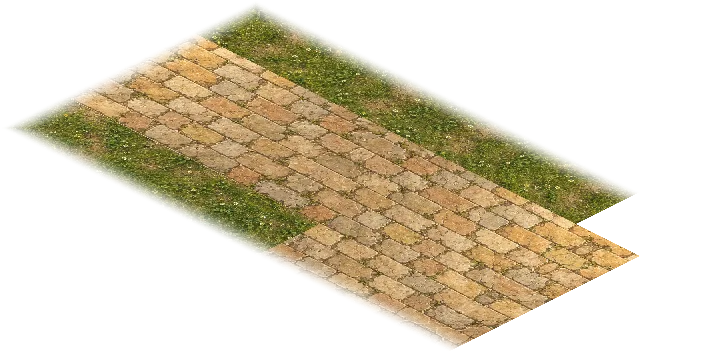
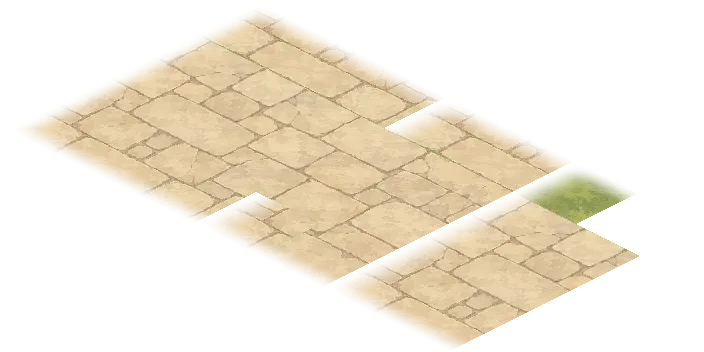
Reuse courtyard materials on western approach

diff --git a/scripts/art/ba-dan-western-approach-ground.ts b/scripts/art/ba-dan-western-approach-ground.ts
@@ -1,28 +1,27 @@
 /**
- * Pack the first-view western Ba Dan approach from the shared material atlas.
+ * Pack the first-view western Ba Dan approach from the accepted courtyard material.
  *
  * This is deliberately a local, transparent ground region: it covers the
- * spawn road and its immediate grass shoulders while overlapping the existing
- * courtyard feather with the same logical-coordinate sampling.
+ * spawn road and its immediate grass shoulders while copying the x5..6 overlap
+ * directly from the accepted courtyard.
  *
- * npx tsx scripts/art/ba-dan-western-approach-ground.ts <four-quadrant-materials.png>
+ * npx tsx scripts/art/ba-dan-western-approach-ground.ts
  */
-import { mkdirSync, writeFileSync } from 'node:fs';
+import { mkdirSync, readFileSync, writeFileSync } from 'node:fs';
+import { createRequire } from 'node:module';
+import decode, { init } from '@jsquash/webp/decode.js';
 import { BA_DAN_VILLAGE } from '../../src/content/maps/village';
-import { newImage, readImage } from './lib/image';
+import { newImage } from './lib/image';
 import { encodeWebp } from './lib/webp';
 
-const source = process.argv[2];
-if (!source) throw new Error('Provide the painted four-quadrant material atlas.');
-
-const atlas = readImage(source);
-const swatch = Math.floor(Math.min(atlas.width, atlas.height) / 2);
-const edge = 3;
-const period = swatch - edge * 2;
-const sample = (value: number): number => {
-  const wrapped = ((value % (period * 2)) + period * 2) % (period * 2);
-  return edge + Math.min(period - 1, Math.floor(wrapped < period ? wrapped : period * 2 - wrapped));
-};
+const courtyardPath = 'public/art/maps/ba-dan-scene/courtyard-ground.webp';
+const require = createRequire(import.meta.url);
+const wasm = readFileSync(require.resolve('@jsquash/webp/codec/dec/webp_dec.wasm'));
+await init(await WebAssembly.compile(wasm));
+const bytes = readFileSync(courtyardPath);
+const courtyard = await decode(
+  bytes.buffer.slice(bytes.byteOffset, bytes.byteOffset + bytes.byteLength),
+);
 
 // Projected bounds for logical x0..6, y6..9. It overlaps the courtyard at
 // x5..6; neither region needs a screen-space edge there because both sample
@@ -35,6 +34,18 @@ const image = newImage(width, height);
 const smoothstep = (edge0: number, edge1: number, value: number): number => {
   const t = Math.max(0, Math.min(1, (value - edge0) / (edge1 - edge0)));
   return t * t * (3 - 2 * t);
+};
+const courtyardOrigin = { x: 640, y: 256 };
+const colorAt = (x: number, y: number): readonly number[] => {
+  const px = Math.floor(1024 + (x - y) * 64 - courtyardOrigin.x);
+  const py = Math.floor((x + y) * 32 - courtyardOrigin.y);
+  const at = (py * courtyard.width + px) * 4;
+  return [
+    courtyard.data[at] ?? 0,
+    courtyard.data[at + 1] ?? 0,
+    courtyard.data[at + 2] ?? 0,
+    courtyard.data[at + 3] ?? 0,
+  ];
 };
 
 for (let py = 0; py < height; py++) {
@@ -53,15 +64,26 @@ for (let py = 0; py < height; py++) {
     // the courtyard region, whose matching sampling already supplies the join.
     const alpha = Math.round(255 * smoothstep(0, 0.4, Math.min(x, y - 6, 10 - y)));
     if (alpha === 0) continue;
-    const material = cell === '=' || cell === '.' || cell === 'B' || cell === 'l' ? 0 : 1;
-    const sx = sample(x * 192) + (material % 2) * swatch;
-    const sy = sample(y * 192) + Math.floor(material / 2) * swatch;
-    const from = (sy * atlas.width + sx) * 4;
+    const road = cell === '=' || cell === '.' || cell === 'B' || cell === 'l';
+    // The overlap is an exact decoded copy of the accepted courtyard. West of
+    // it, repeat interior road cells x5..9,y7..8 and quiet grass x5..7,y9,
+    // retaining the approved broad flagstone scale and meadow palette instead
+    // of mixing in the unrelated historical raw atlas.
+    const source =
+      x >= 5
+        ? { x, y }
+        : road
+          ? { x: x + 5, y }
+          : {
+              x: 5 + (((Math.floor(x) % 3) + 3) % 3) + (x - Math.floor(x)),
+              y: 9 + (y - Math.floor(y)),
+            };
+    const rgba = colorAt(source.x, source.y);
     const to = (py * image.width + px) * 4;
-    image.data[to] = atlas.data[from] ?? 0;
-    image.data[to + 1] = atlas.data[from + 1] ?? 0;
-    image.data[to + 2] = atlas.data[from + 2] ?? 0;
-    image.data[to + 3] = Math.round(((atlas.data[from + 3] ?? 255) * alpha) / 255);
+    image.data[to] = rgba[0] ?? 0;
+    image.data[to + 1] = rgba[1] ?? 0;
+    image.data[to + 2] = rgba[2] ?? 0;
+    image.data[to + 3] = Math.round(((rgba[3] ?? 255) * alpha) / 255);
   }
 }
 

diff --git a/src/content/scenes/baDan.test.ts b/src/content/scenes/baDan.test.ts
@@ -46,6 +46,18 @@ function alphaAt(
   return image.data[(y * image.width + x) * 4 + 3] ?? 0;
 }
 
+function rgbAt(
+  piece: (typeof BA_DAN_SCENE.ground)[number],
+  pos: { x: number; y: number },
+): readonly number[] {
+  const image = decodedGround.get(piece.url);
+  if (!image) return [0, 0, 0];
+  const x = Math.round(1024 + (pos.x - pos.y) * 64 - piece.x);
+  const y = Math.round((pos.x + pos.y + 1) * 32 - piece.y);
+  const at = (y * image.width + x) * 4;
+  return [image.data[at] ?? 0, image.data[at + 1] ?? 0, image.data[at + 2] ?? 0];
+}
+
 it('keeps painted low boundaries solid while preserving every village destination', () => {
   const map = BA_DAN_VILLAGE;
   const grid = buildGrid(map);
@@ -142,6 +154,13 @@ it('ships the western spawn approach as decoded material coverage with a courtya
   ]) {
     expect(alphaAt(western, pos), `western join ${pos.x},${pos.y}`).toBeGreaterThan(240);
     expect(alphaAt(courtyard, pos), `courtyard join ${pos.x},${pos.y}`).toBeGreaterThan(240);
+    const westernRgb = rgbAt(western, pos);
+    const courtyardRgb = rgbAt(courtyard, pos);
+    for (let channel = 0; channel < 3; channel++)
+      expect(
+        Math.abs((westernRgb[channel] ?? 0) - (courtyardRgb[channel] ?? 0)),
+        `RGB join ${pos.x},${pos.y}, channel ${channel}`,
+      ).toBeLessThanOrEqual(4);
   }
 });
 

diff --git a/docs/art/ba-dan-scene.md b/docs/art/ba-dan-scene.md
@@ -56,19 +56,19 @@ The deterministic material and coping generators are:
 
 ```sh
 npx tsx scripts/art/ba-dan-courtyard-ground.ts art/raw/scenes/ground-materials.png
-npx tsx scripts/art/ba-dan-western-approach-ground.ts art/raw/scenes/ground-materials.png
+npx tsx scripts/art/ba-dan-western-approach-ground.ts
 npx tsx scripts/art/ba-dan-canal-banks.ts art/raw/scenes/ground-materials.png
 python scripts/art/ba-dan-bridge-front.py
 ```
 
-The material atlas is deliberately not represented as tracked source. The
-western pack was made from the existing ignored local input at
-`C:\Users\Jared\.codex\worktrees\71bd\Avatar RPG\art\raw\scenes\ground-materials.png`
-(1254×1254 PNG, SHA-256
[1 lines of base64/hex data omitted]
-path and hash record the actual source used; the committed generator is the
-reproducible transformation contract and must not be described as the raw
-atlas being tracked.
+The western pack derives from the tracked accepted local material source
+`public/art/maps/ba-dan-scene/courtyard-ground.webp` (1152×576 WebP,
[1 lines of base64/hex data omitted]
+It decodes that already material-composed region, copies its actual pixels in
+the x5–6 overlap, and repeats interior quiet-grass and broad-flagstone swatches
+for the western cells. This is local material reuse, not a full-map crop or
+recolouring. The older ignored raw atlas is not the source of this pack and is
+not described as tracked.
 
 The original scenery layers continue to use `scripts/art/scene-image.ts` for
 alpha-trimmed WebP packing. The complete map encoder remains useful for old
